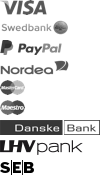
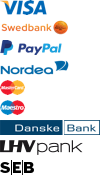
Heading updates

diff --git a/assets/stylesheets/shared/_footer.scss b/assets/stylesheets/shared/_footer.scss
@@ -25,7 +25,6 @@ footer.main-footer {
         padding: 0 2px;
         display: inline-block;
         background: asset-url('images/payments.png') no-repeat top left;
-        opacity: 0.5;
         @media
         only screen and (-webkit-min-device-pixel-ratio: 2),
         only screen and (   min--moz-device-pixel-ratio: 2),
@@ -119,6 +118,13 @@ footer.main-footer {
     .social-container {
       padding: #{$default_padding}px;
 
+      &:not(.three-quarters) {
+        text-align: center;
+
+        .social-title {
+          text-align: center;
+        }
+      }
       .social-title {
         font-size: 1rem;
         font-family: $body_font_family;
@@ -152,6 +158,9 @@ footer.main-footer {
       padding: #{$default_padding * 1.5}px #{$default_padding}px;
     }
     .shoperb {
+      font-size: 0.75rem;
+      text-transform: uppercase;
+      font-weight: 600;
       text-align: right;
       padding: 0 #{$default_padding}px;
       position: relative;

diff --git a/assets/stylesheets/sections.scss b/assets/stylesheets/sections.scss
@@ -42,7 +42,7 @@ section[data-type] {
       //background: lighten($image_overlay_dark_color, 20%);
       background: $buttons_primary_button_background_color;
       display: inline-block;
-      //box-shadow: 0 0 0 1px darken($layout_border_color, 20%);
+      box-shadow: inset 0 0 0 1px $buttons_primary_button_background_color;
       box-sizing: border-box;
       opacity: 0.7;
 
@@ -543,9 +543,6 @@ section[data-type=slideshow] {
   .text-column {
     padding: #{$default_padding}px;
 
-    .general-title {
-      padding-bottom: 0;
-    }
     img {
       width: 100%;
     }
@@ -689,6 +686,7 @@ section[data-type=slideshow] {
     }
     .general-title {
       text-align: left;
+      padding-bottom: 15px;
     }
   }
 }
@@ -707,6 +705,9 @@ section[data-type=slideshow] {
     }
     .custom-section {
       &.custom_text {
+        .general-title {
+          padding-bottom: 15px;
+        }
         &.text-align-left {
           text-align: left;
 
